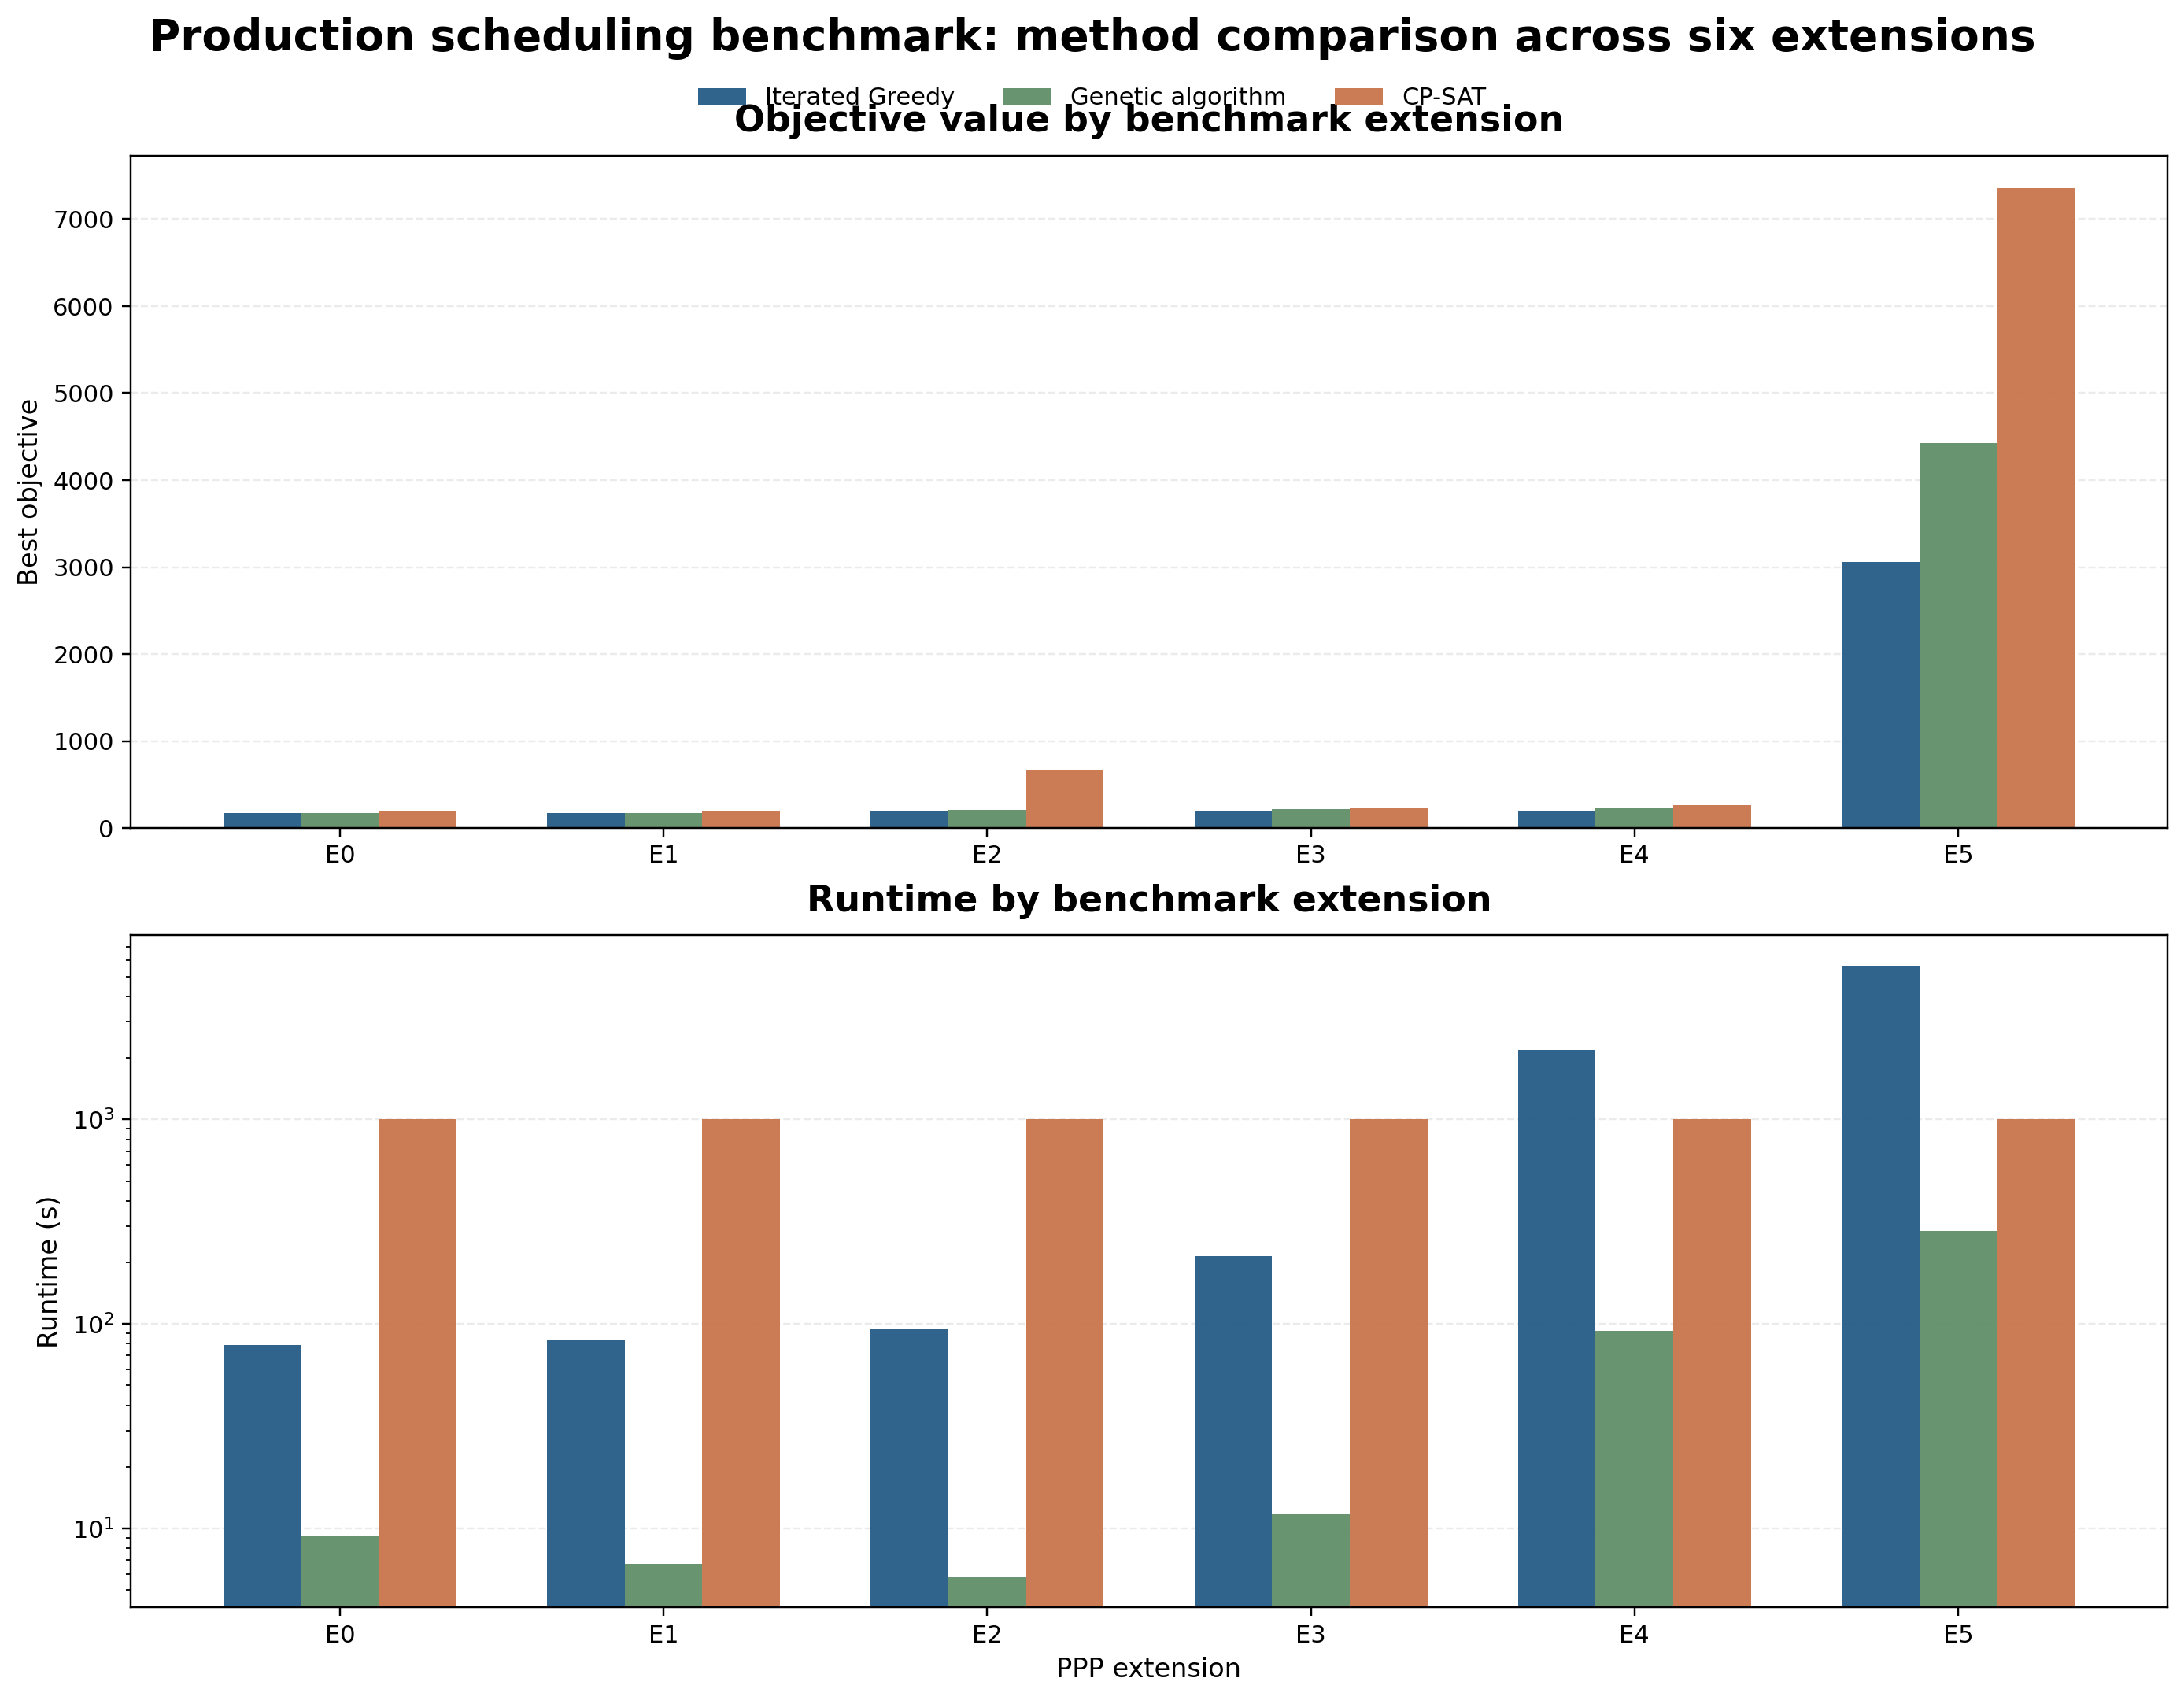
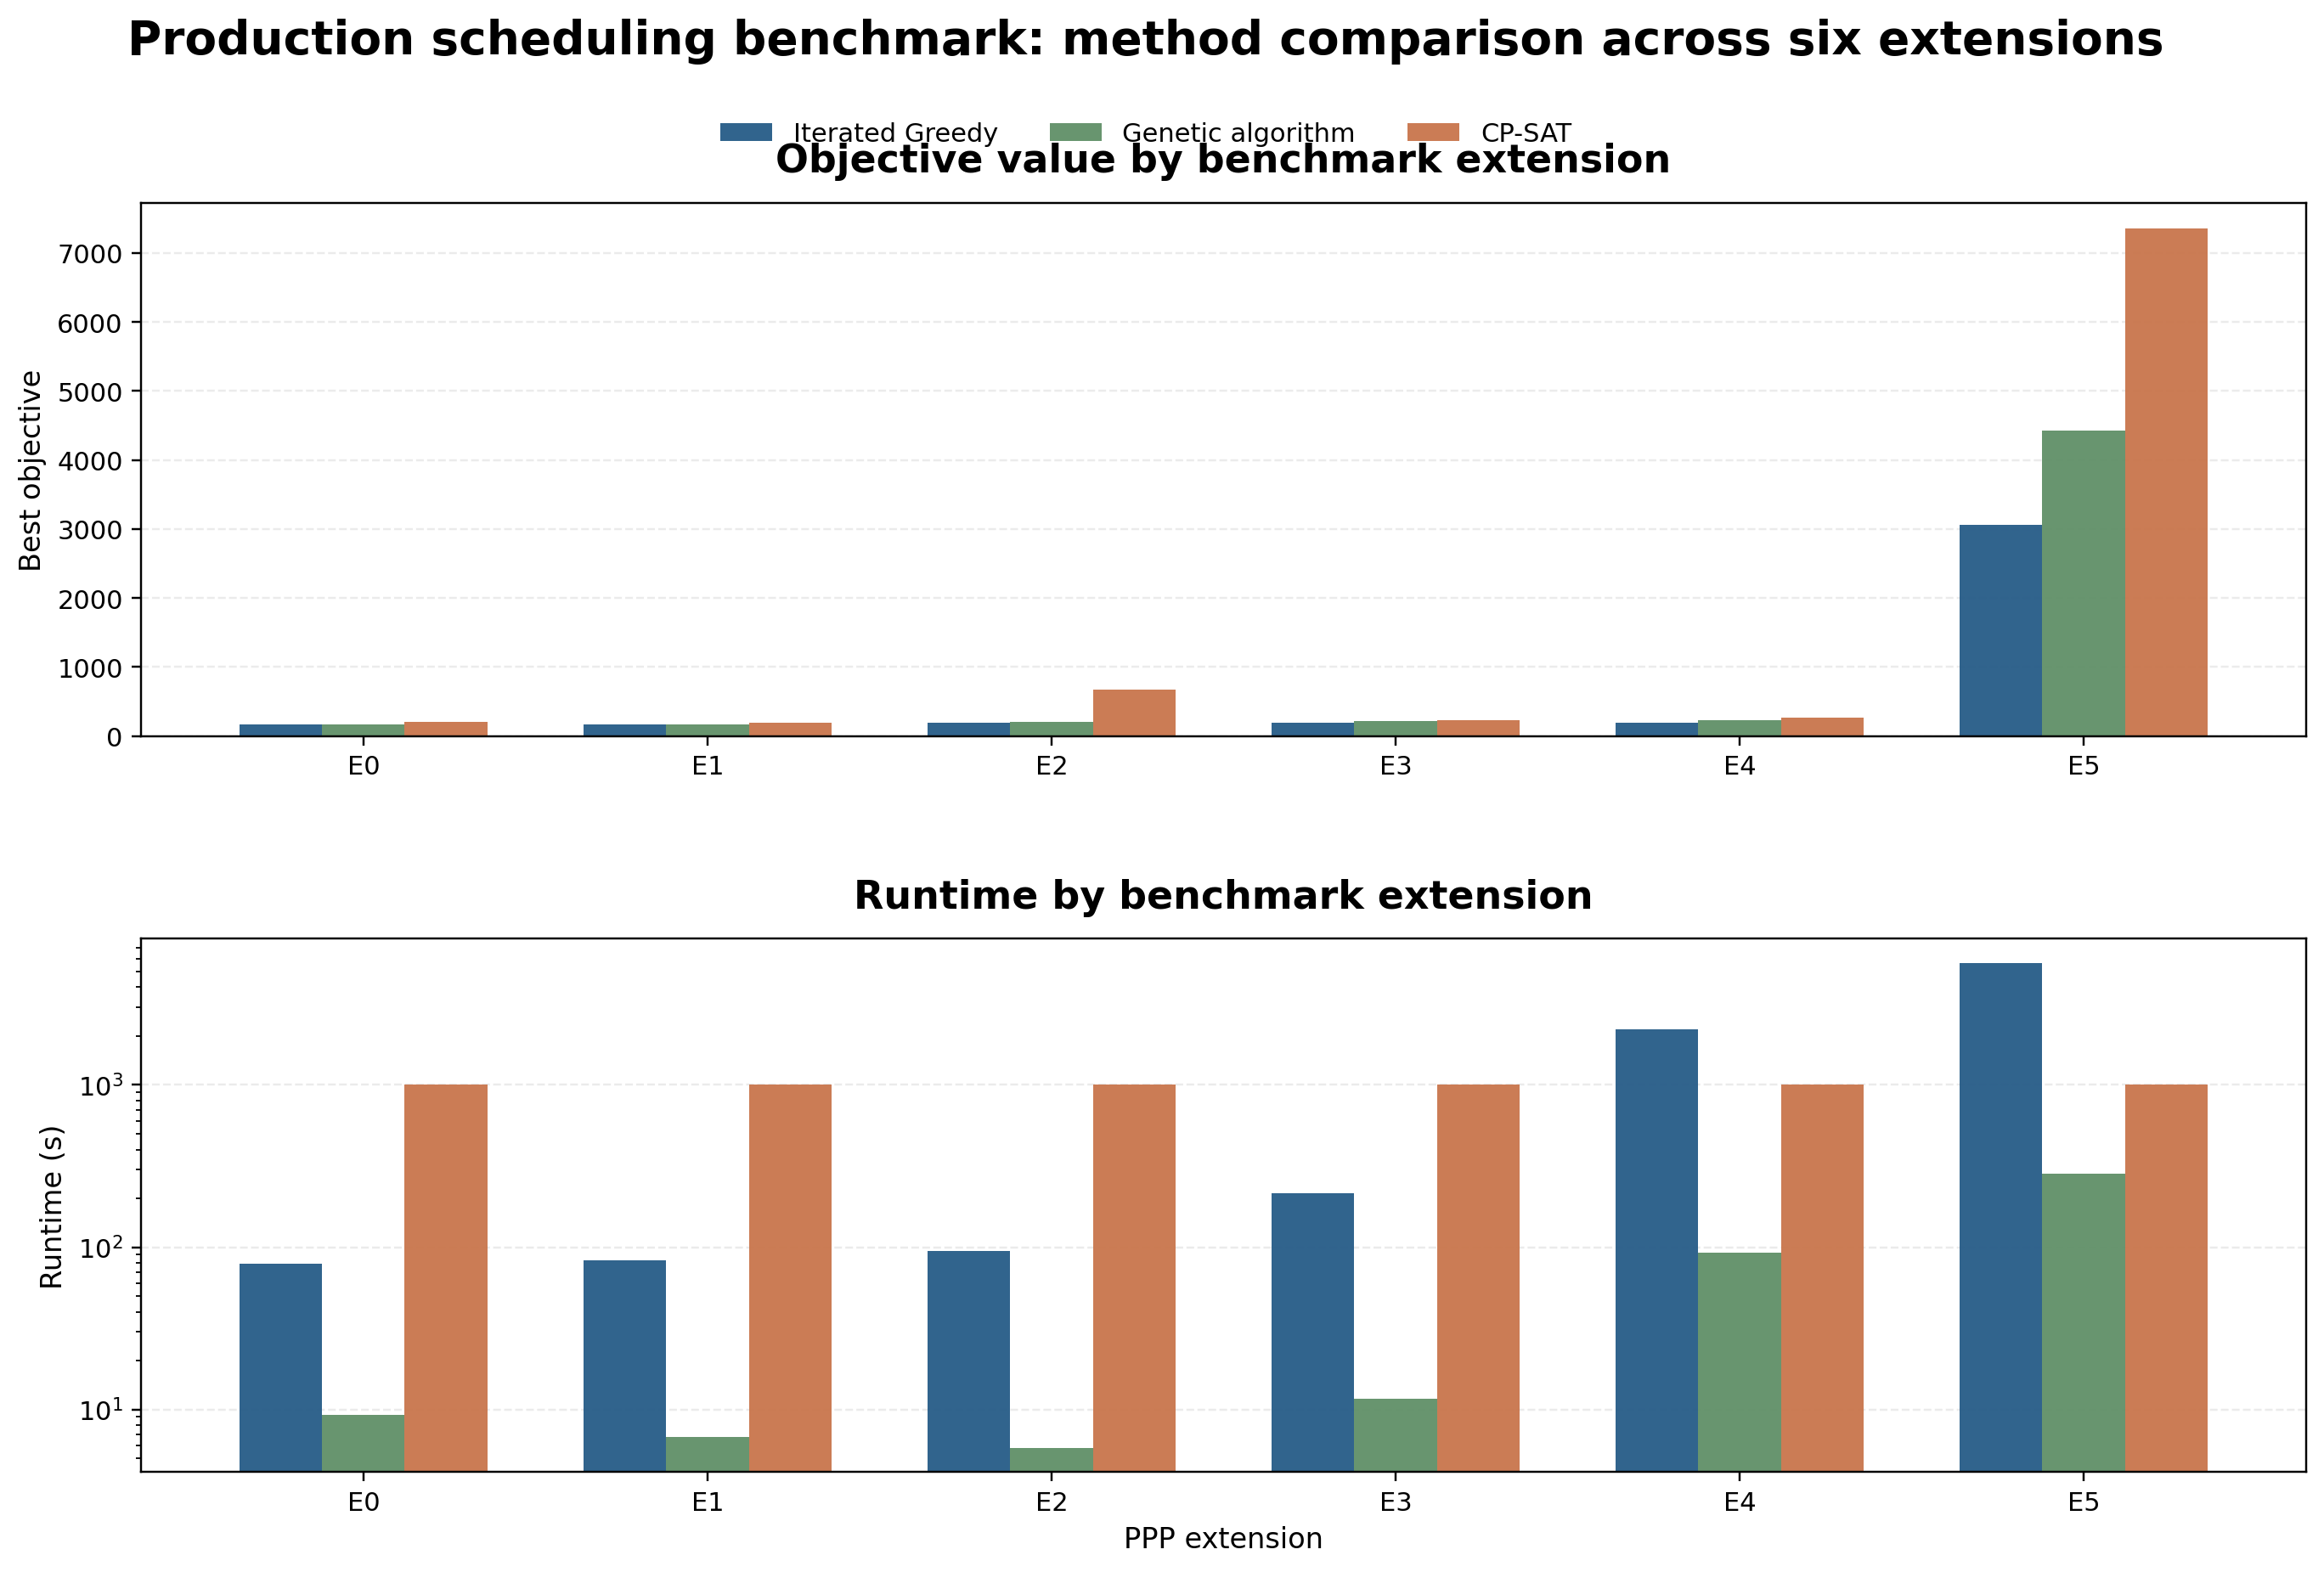
Polish project cards and add python foundations preview

diff --git a/src/main.js b/src/main.js
@@ -34,8 +34,17 @@ function renderProjectMedia(project) {
 function renderProjectCard(project) {
   const tags = project.tags.map((tag) => `<span class="meta-chip">${tag}</span>`).join("");
   const tech = project.technologies.map((item) => `<span class="meta-chip">${item}</span>`).join("");
+  const githubLink = project.github && project.github !== "#"
+    ? `<a class="button button-secondary" href="${project.github}">GitHub</a>`
+    : "";
   const reportLink = project.report && project.report !== "#"
     ? `<a class="button button-secondary" href="${project.report}">Report</a>`
+    : "";
+  const linksBlock = (githubLink || reportLink)
+    ? `<div class="project-links">
+        ${githubLink}
+        ${reportLink}
+      </div>`
     : "";
 
   return `
@@ -51,10 +60,7 @@ function renderProjectCard(project) {
       <p class="cluster-label">${project.cluster}</p>
       <div class="meta-row">${tags}</div>
       <div class="meta-row">${tech}</div>
-      <div class="project-links">
-        <a class="button button-secondary" href="${project.github}">GitHub</a>
-        ${reportLink}
-      </div>
+      ${linksBlock}
     </article>
   `;
 }

diff --git a/src/styles.css b/src/styles.css
@@ -470,15 +470,15 @@ h3 {
 .projects-grid {
   display: grid;
   grid-template-columns: repeat(2, minmax(0, 1fr));
-  gap: 22px;
+  gap: 28px;
 }
 
 .project-card {
   border-radius: 22px;
-  padding: 24px;
+  padding: 26px;
   display: flex;
   flex-direction: column;
-  gap: 14px;
+  gap: 16px;
   background: rgba(255, 255, 255, 0.9);
   overflow: hidden;
 }
@@ -499,7 +499,7 @@ h3 {
 .project-gallery-grid {
   display: grid;
   grid-template-columns: 1fr 1fr;
-  gap: 10px;
+  gap: 12px;
   align-items: stretch;
 }
 